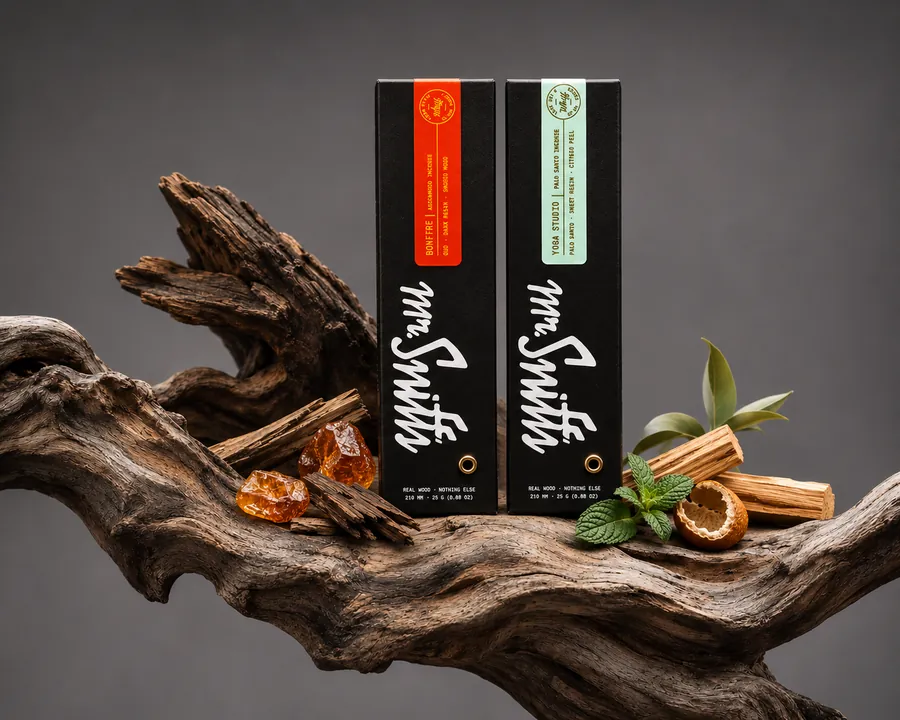
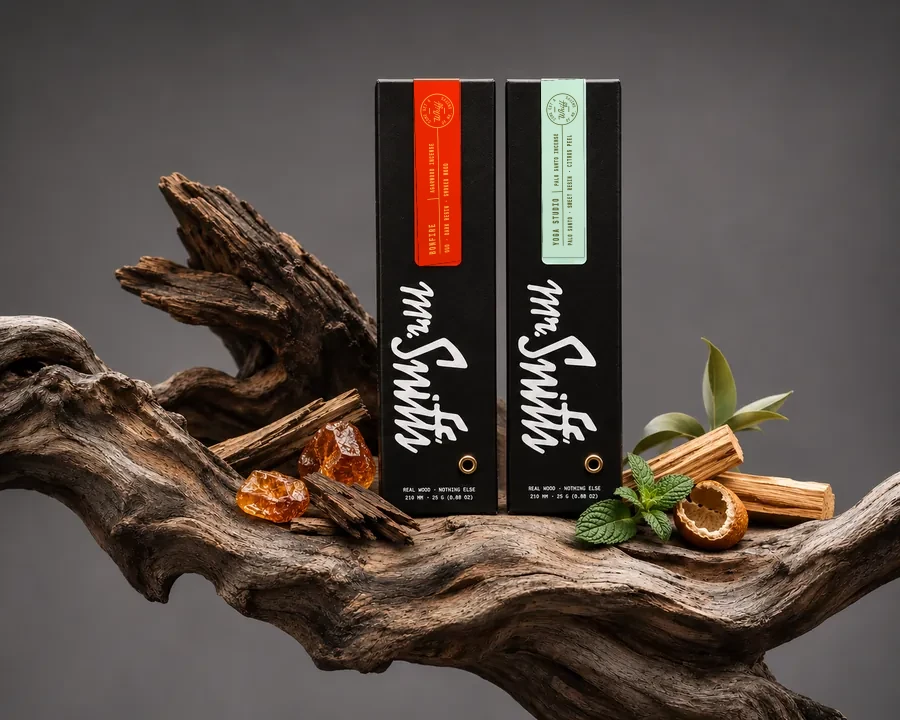
Clean remaining AI type artifacts across product and scene photos
- Clean Bonfire/Yoga labels on hero, smell-hero, howto, howto-cta, pdp-ship-fg,
  pdp-box-sleeve, pdp-box-open, pdp-lineup-bonfire, pdp-lineup-duo, duo-branch,
  gallery-3, gallery-4, story/why-1, why-2, why-5
- Re-set the side line (INCENSE MADE FOR PEOPLE WHO HAVE A NOSE · MRSNIFFS.CO)
  on shop-duo, story/why-2, duo-branch and howto
- Re-set base copy (REAL WOOD · NOTHING ELSE / 210 MM · 25 G) on shop-duo and hero
- howto-care: wordmark rotated upright in place, lid edge rebuilt, clean label

Claude-Session: https://claude.ai/code/session_018sbhs56ehqqzLbZEBXg3e9

Changed region(s): [[0.5911, 0.0917, 0.6533, 0.3667], [0.4667, 0.0917, 0.5289, 0.3667]]

diff --git a/BUILD-LIST.md b/BUILD-LIST.md
@@ -53,8 +53,8 @@ Style source: Figma file "Mr. Sniff's Style Guide + Emails" (tokens, type styles
 
 - Logo renders small on How to Use in Chrome.
 - Upside-down product photo on the PDP gallery.
-- Product photography: the real box prints the wordmark and the label in opposite reading directions, so a horizontal shot can show one upright, never both. Bonfire "What it smells like" now shows the wordmark upright (Nov 23); `howto-care.webp` still shows the label upright.
-- `shop-duo.webp` side panel reads "MBGNIFFS.CO" (AI artifact).
+- Product photography: the real box prints the wordmark and the label in opposite reading directions, so a horizontal shot can show one upright, never both. Retouched shots favour the wordmark (`pdp-smell-bg`, `howto-care`). Reshoot or packaging fix if that matters.
+- AI type artifacts cleaned (Nov 23): scent labels on every product and scene shot, the side line ("INCENSE MADE FOR PEOPLE WHO HAVE A NOSE · MRSNIFFS.CO") on `shop-duo`, `story/why-2`, `duo-branch`, `howto`, and the base copy on `shop-duo` and `hero`. Base copy on the other shots is too small to read and left as is.
 - Holder stock: homepage/Figma shows Ash Catchum and Brass Monkey sold out, Stachin' Ash in stock. All product pages now follow that; the homepage footnote still says all three are sold out.
 - Mono45 Headline license files still missing (DM Mono stands in).
 - Copy conflict: the homepage and How to Use story blocks say "hand-rolled sticks" and "bold fragrance loads", but the PDP and emails say extruded, sun-dried, no added fragrance. Pick one.
